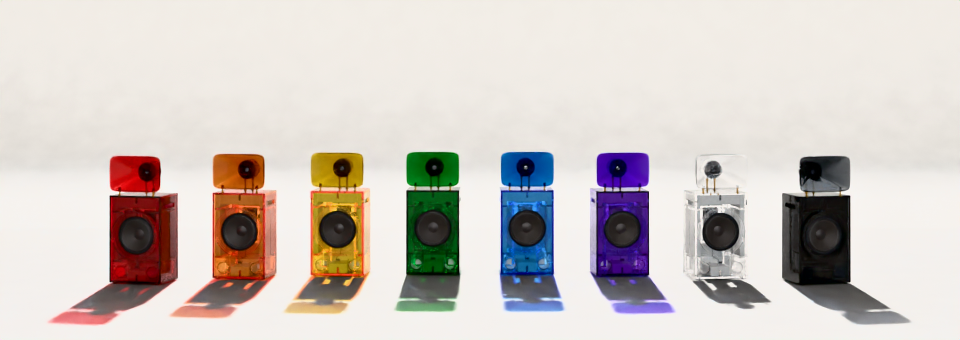
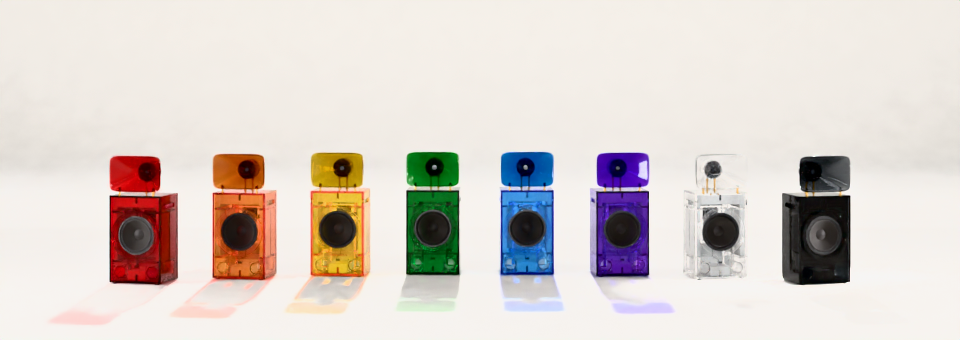
Tropos deck cover, honest: proved at 0.25 scale (exposure 0.3 stop down)
Lamps unlinked, through glass, at specular 1. smoke on a 30 deg grid, strip from 70 to 6, side_l moved.
Front means, the side_l fix (c2) against honest (c4): Ember 39 to 59, Dust 73 to 83, Acid 92 to 106, Poison 34 to 40, Ice 76 to 90, Haze 57 to 65, Fog 131 to 146, Smoke 26 to 38.
Saturation within 0.05. Tops clipped on at most 6 %.

Claude-Session: https://claude.ai/code/session_01CsZ9sPVytkpnrfV4BgTgfB

diff --git a/spinoffs/barkhorn/campaign/shots.py b/spinoffs/barkhorn/campaign/shots.py
@@ -484,6 +484,10 @@ def deck_cover():
         L['smoke'].update(target=[sm[0], sm[1], 0.5], spread_deg=30)
     if 'strip' in L:
         L['strip']['irradiance'] = 6.0
+    # (its proxy, 0.25 scale: the cyc, top and over lamps through glass, and the side lamps unlinked, lift the fronts by
+    # about a third and fill the long shadows; Dust's and Acid's tops clipped on 12 and 11 %. 0.3 stop down: 4 and 6 %,
+    # as before the rule, the fronts' saturation within 0.05 of it, the sweep 238)
+    s['render']['exposure'] = round(s['render'].get('exposure', 0.0) - 0.3, 2)
     return s
 
 
